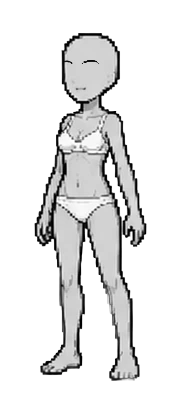
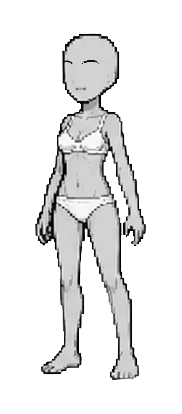
eyes

diff --git a/index.html b/index.html
@@ -26443,14 +26443,14 @@ input::placeholder, textarea::placeholder { color: var(--muted) !important; }
   // interior. Same trick keeps cel-shaded outlines on hats, clothes,
   // shoes from getting hair/cloth/shoe-color-tinted.
   const OUTLINE_THRESHOLD = 50;
-  // drawTinted: optional outlineColor controls what happens to outline
-  // pixels (gray < OUTLINE_THRESHOLD).
-  //   - outlineColor unset  → preserve outline as artist's grayscale
-  //   - outlineColor set    → tint outline with this color
-  // The hair sprite passes skin color as outlineColor so ear outlines
-  // (which live inside the hair sprite) get tinted as skin-shaded line
-  // work instead of leaving them as detached dark spirals.
-  function drawTinted(sprite, color, outlineColor) {
+  const WHITE_THRESHOLD   = 240;
+  // drawTinted: configurable per-sprite tint passes.
+  //   - outlineColor unset    → preserve outline gray as artist drew
+  //   - outlineColor set      → tint outline pixels with this color
+  //   - preserveWhites=true   → don't tint near-white pixels (used for
+  //                             eyes so the whites of the eye stay
+  //                             white when picking an iris color)
+  function drawTinted(sprite, color, outlineColor, preserveWhites) {
     if (!sprite) return;
     tCtx.clearRect(0, 0, W, H);
     if (!color) {
@@ -26480,8 +26480,6 @@ input::placeholder, textarea::placeholder { color: var(--muted) !important; }
       const g = d[i];
       if (g < OUTLINE_THRESHOLD) {
         if (hasOutlineColor) {
-          // Tint outlines with the explicit outline color (e.g. skin
-          // for ears inside the hair sprite)
           d[i]     = (g * or) >> 8;
           d[i + 1] = (g * og) >> 8;
           d[i + 2] = (g * ob) >> 8;
@@ -26489,6 +26487,9 @@ input::placeholder, textarea::placeholder { color: var(--muted) !important; }
         // else: leave outline grayscale (artist's choice)
         continue;
       }
+      // Near-white pixels (eye whites, highlights flagged for preservation)
+      // skip the tint pass entirely — they keep their bright value.
+      if (preserveWhites && g >= WHITE_THRESHOLD) continue;
       d[i]     = (g * cr) >> 8;
       d[i + 1] = (g * cg) >> 8;
       d[i + 2] = (g * cb) >> 8;
@@ -26558,33 +26559,35 @@ input::placeholder, textarea::placeholder { color: var(--muted) !important; }
   async function render() {
     const myToken = ++renderToken;
     const body = state.body;
-    // Each layer: [spriteName, color, isBody, outlineColor?]
-    //   isBody=true        → drawBodyTinted (alpha-forced interior)
-    //   outlineColor set   → drawTinted tints outlines with that color
-    //                        (used for hair so ears get skin-tinted)
+    // Each layer: [spriteName, color, isBody, outlineColor?, preserveWhites?]
+    //   isBody=true          → drawBodyTinted (alpha-forced interior)
+    //   outlineColor set     → drawTinted tints outline pixels with this
+    //   preserveWhites=true  → near-white pixels stay white (eye whites)
     const bodyFile = body === 'm' ? 'male' : 'female';
     const layers = [];
-    layers.push([bodyFile, state.skin, true, null]);
-    layers.push(['eyes_' + body, state.eye, false, null]);
-    if (state.bottom) layers.push([`bottom${state.bottom}_${body}`, tintFor('bottom', state.bottom, state.bottomColor), false, null]);
-    if (state.shoes)  layers.push([`shoes${state.shoes}_${body}`,   tintFor('shoes',  state.shoes,  state.shoesColor),  false, null]);
-    if (state.top)    layers.push([`top${state.top}_${body}`,       tintFor('top',    state.top,    state.topColor),    false, null]);
+    layers.push([bodyFile, state.skin, true, null, false]);
+    // Eyes: preserve the whites of the eye so they stay white regardless
+    // of iris color choice. Only the medium-grey iris pixels tint.
+    layers.push(['eyes_' + body, state.eye, false, null, true]);
+    if (state.bottom) layers.push([`bottom${state.bottom}_${body}`, tintFor('bottom', state.bottom, state.bottomColor), false, null, false]);
+    if (state.shoes)  layers.push([`shoes${state.shoes}_${body}`,   tintFor('shoes',  state.shoes,  state.shoesColor),  false, null, false]);
+    if (state.top)    layers.push([`top${state.top}_${body}`,       tintFor('top',    state.top,    state.topColor),    false, null, false]);
     // Hair: outline pixels (including ears) get tinted with skin color
     // so they read as part of the body's line work, not as detached
     // dark spirals on the head.
-    if (state.hair)   layers.push([`hair${state.hair}_${body}`,     tintFor('hair',   state.hair,   state.hairColor),   false, state.skin]);
-    if (state.hat)    layers.push([`hat${state.hat}_${body}`,       tintFor('hat',    state.hat,    state.hatColor),    false, null]);
+    if (state.hair)   layers.push([`hair${state.hair}_${body}`,     tintFor('hair',   state.hair,   state.hairColor),   false, state.skin, false]);
+    if (state.hat)    layers.push([`hat${state.hat}_${body}`,       tintFor('hat',    state.hat,    state.hatColor),    false, null, false]);
 
     const sprites = await Promise.all(layers.map(([name]) => loadSprite(name)));
     if (myToken !== renderToken) return;        // newer render started; this one is stale
 
     ctx.clearRect(0, 0, W, H);
     for (let i = 0; i < layers.length; i++) {
-      const [, color, isBody, outlineColor] = layers[i];
+      const [, color, isBody, outlineColor, preserveWhites] = layers[i];
       if (isBody) {
         drawBodyTinted(sprites[i], color);
       } else {
-        drawTinted(sprites[i], color, outlineColor);
+        drawTinted(sprites[i], color, outlineColor, preserveWhites);
       }
     }
   }

diff --git a/sw.js b/sw.js
@@ -1,5 +1,5 @@
 // PathBinder Service Worker
-const CACHE = 'pathbinder-v160';
+const CACHE = 'pathbinder-v161';
 
 const PRECACHE = [
   '/offline.html',
